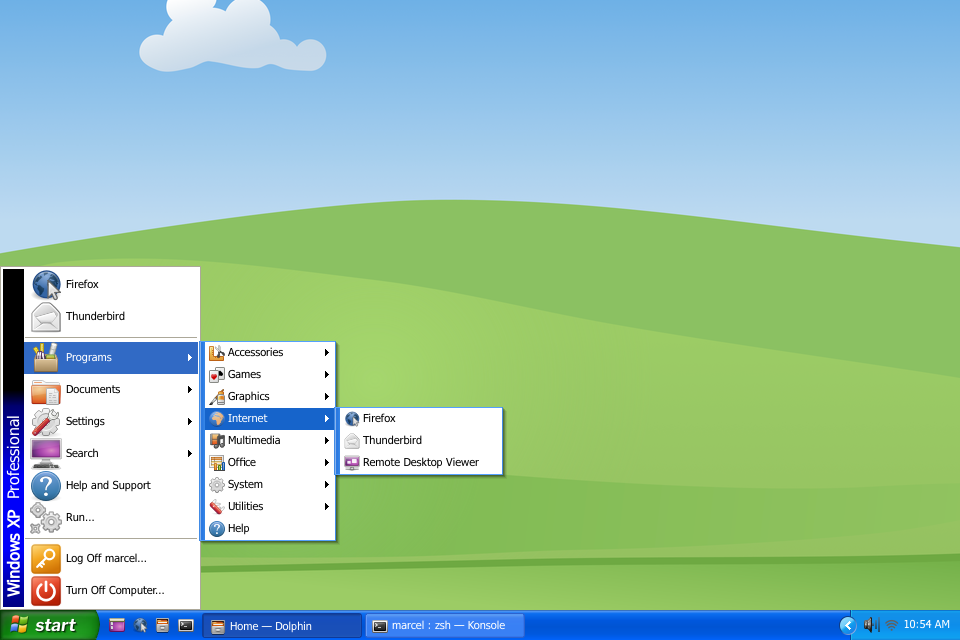
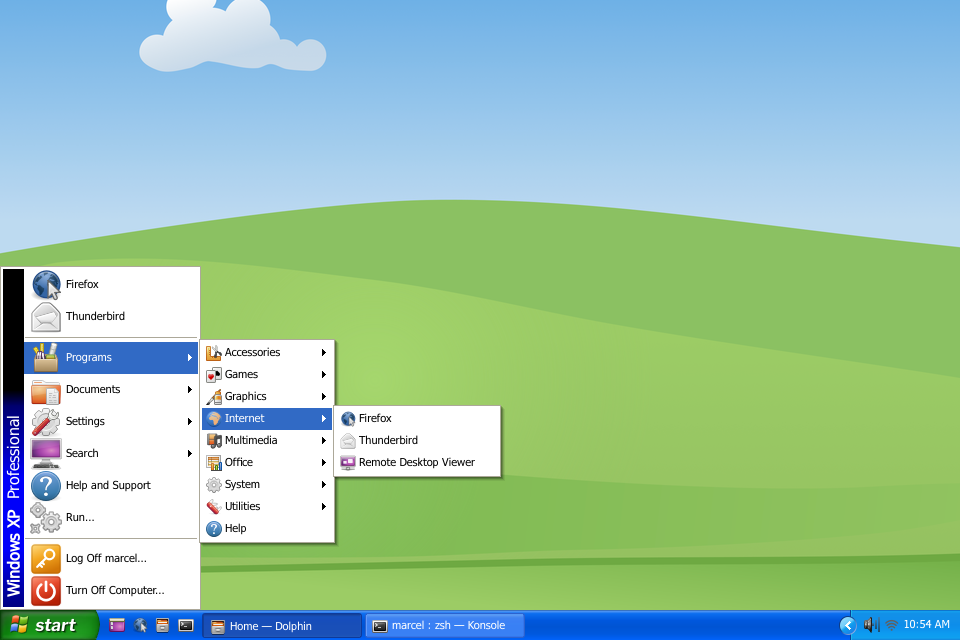
Classic Start menu: submenus as Luna's plain menus
In the Classic Start menu XP opens ordinary Luna menus: white with a
1 px grey border and 2 px padding, no blue band, plain separators and
the normal highlight. Cascades take that style there; the XP menu's
cascades are unchanged. Screenshot reshot.

Claude-Session: https://claude.ai/code/session_01PfMQm1A3gEqM17TJU2qVLD

Changed region(s): [[0.1875, 0.5312, 0.5312, 0.875]]

diff --git a/home/.local/share/plasma/plasmoids/com.github.marpogaus.winxpstartmenu/contents/ui/CascadeMenuView.qml b/home/.local/share/plasma/plasmoids/com.github.marpogaus.winxpstartmenu/contents/ui/CascadeMenuView.qml
@@ -33,11 +33,17 @@ Item {
     readonly property alias frameItem: frame
     property int columnWidth: 160
 
-    // Frame: left border and band (6 px), rows, right border (1 px); rows
+    // The Classic Start menu's submenus are Luna's plain menus: white,
+    // 1 px grey border and 2 px padding, no band, plain separators
+    readonly property bool classic: controller.classic === true
+
+    // XP: left border and band (6 px), rows, right border (1 px); rows
     // directly below the top border and above the bottom one
-    readonly property int frameLeft: 1 + xp.cascadeBand.length
-    width: frameLeft + columns * columnWidth + 1 + shadow
-    height: 1 + 2 * stripHeight + shownRows * rowHeight + 1 + shadow
+    readonly property int frameLeft: classic ? 3 : 1 + xp.cascadeBand.length
+    readonly property int frameTop: classic ? 3 : 1
+    readonly property int frameRight: classic ? 3 : 1
+    width: frameLeft + columns * columnWidth + frameRight + shadow
+    height: 2 * frameTop + 2 * stripHeight + shownRows * rowHeight + shadow
 
     function computeColumnWidth() {
         let widest = 0;
@@ -147,26 +153,27 @@ Item {
         Rectangle {
             width: parent.width
             height: 1
-            color: view.xp.cascadeBorderLight
+            color: view.classic ? view.xp.classicBorder : view.xp.cascadeBorderLight
         }
         Rectangle {
             y: parent.height - 1
             width: parent.width
             height: 1
-            color: view.xp.cascadeBorderLight
+            color: view.classic ? view.xp.classicBorder : view.xp.cascadeBorderLight
         }
         Rectangle {
             width: 1
             height: parent.height
-            color: view.xp.cascadeBorder
+            color: view.classic ? view.xp.classicBorder : view.xp.cascadeBorder
         }
         Rectangle {
             x: parent.width - 1
             width: 1
             height: parent.height
-            color: view.xp.cascadeBorder
+            color: view.classic ? view.xp.classicBorder : view.xp.cascadeBorder
         }
         Row {
+            visible: !view.classic
             x: 1
             y: 1
             Repeater {
@@ -187,7 +194,7 @@ Item {
                 id: strip
                 required property int modelData
                 x: view.frameLeft
-                y: modelData < 0 ? 1 : frame.height - 1 - view.stripHeight
+                y: modelData < 0 ? view.frameTop : frame.height - view.frameTop - view.stripHeight
                 width: view.columnWidth
                 height: view.stripHeight
 
@@ -222,7 +229,7 @@ Item {
         GridView {
             id: grid
             x: view.frameLeft
-            y: 1 + view.stripHeight
+            y: view.frameTop + view.stripHeight
             width: view.columns * view.columnWidth
             height: view.shownRows * view.rowHeight
             // One column that scrolls vertically, or columns side by side
@@ -251,7 +258,8 @@ Item {
                     anchors.leftMargin: 2
                     anchors.rightMargin: 2
                     visible: cell.isSeparator
-                    color: view.xp.cascadeSeparator
+                    color: view.classic ? view.xp.classicSeparator : view.xp.cascadeSeparator
+                    fade: !view.classic
 
                     MouseArea {
                         anchors.fill: parent
@@ -274,7 +282,7 @@ Item {
                     leftPadding: 4
                     textSpacing: 3
                     showArrow: cell.hasChildren
-                    highlightColor: view.xp.cascadeHighlight
+                    highlightColor: view.classic ? view.xp.highlight : view.xp.cascadeHighlight
                     isNew: view.controller.highlightNew && cell.model.isNewlyInstalled === true
                     forceHighlight: view.openIndex === cell.index
                         && (view.pointerIndex < 0 || view.pointerIndex === cell.index)
@@ -300,7 +308,7 @@ Item {
 
         MenuEntry {
             x: view.frameLeft
-            y: 1
+            y: view.frameTop
             width: view.columnWidth
             height: view.rowHeight
             visible: view.itemCount === 0

diff --git a/home/.local/share/plasma/plasmoids/com.github.marpogaus.winxpstartmenu/contents/ui/MenuSeparator.qml b/home/.local/share/plasma/plasmoids/com.github.marpogaus.winxpstartmenu/contents/ui/MenuSeparator.qml
@@ -2,7 +2,8 @@
     SPDX-License-Identifier: GPL-2.0-or-later
 
     Horizontal separator: a line that fades in and out at both ends, as
-    in XP's start menu and its cascading menus.
+    in XP's start menu and its cascading menus, or a plain one (Luna's
+    ordinary menus).
 */
 import QtQuick
 
@@ -12,6 +13,7 @@ Item {
     property color color: "#d6d6d6"
     property int leftInset: 0
     property int rightInset: 0
+    property bool fade: true
     // XP fades the line in and out over about 28 px at each end
     property int fadeLength: 28
 
@@ -26,10 +28,10 @@ Item {
         height: 1
         gradient: Gradient {
             orientation: Gradient.Horizontal
-            GradientStop { position: 0.0; color: Qt.rgba(separator.color.r, separator.color.g, separator.color.b, 0) }
+            GradientStop { position: 0.0; color: separator.fade ? Qt.rgba(separator.color.r, separator.color.g, separator.color.b, 0) : separator.color }
             GradientStop { position: Math.min(0.5, separator.fadeLength / Math.max(1, line.width)); color: separator.color }
             GradientStop { position: Math.max(0.5, 1 - separator.fadeLength / Math.max(1, line.width)); color: separator.color }
-            GradientStop { position: 1.0; color: Qt.rgba(separator.color.r, separator.color.g, separator.color.b, 0) }
+            GradientStop { position: 1.0; color: separator.fade ? Qt.rgba(separator.color.r, separator.color.g, separator.color.b, 0) : separator.color }
         }
     }
 }

diff --git a/home/.local/share/plasma/plasmoids/com.github.marpogaus.winxpstartmenu/contents/ui/CascadeMenu.qml b/home/.local/share/plasma/plasmoids/com.github.marpogaus.winxpstartmenu/contents/ui/CascadeMenu.qml
@@ -57,9 +57,10 @@ Kicker.SubMenu {
             if (x + cascadeView.width > right) {
                 x = Math.round(menu.x) + 2 - frameWidth;
             }
-            y = rowTop - 1;
+            // The first row level with the row it belongs to
+            y = rowTop - cascadeView.frameTop;
             if (y + cascadeView.height > bottom) {
-                y = rowBottom + 1 - frameHeight;
+                y = rowBottom + cascadeView.frameTop - frameHeight;
             }
         } else {
             x = Math.min(Math.round(row.x + anchorItem.width), right - cascadeView.width);
